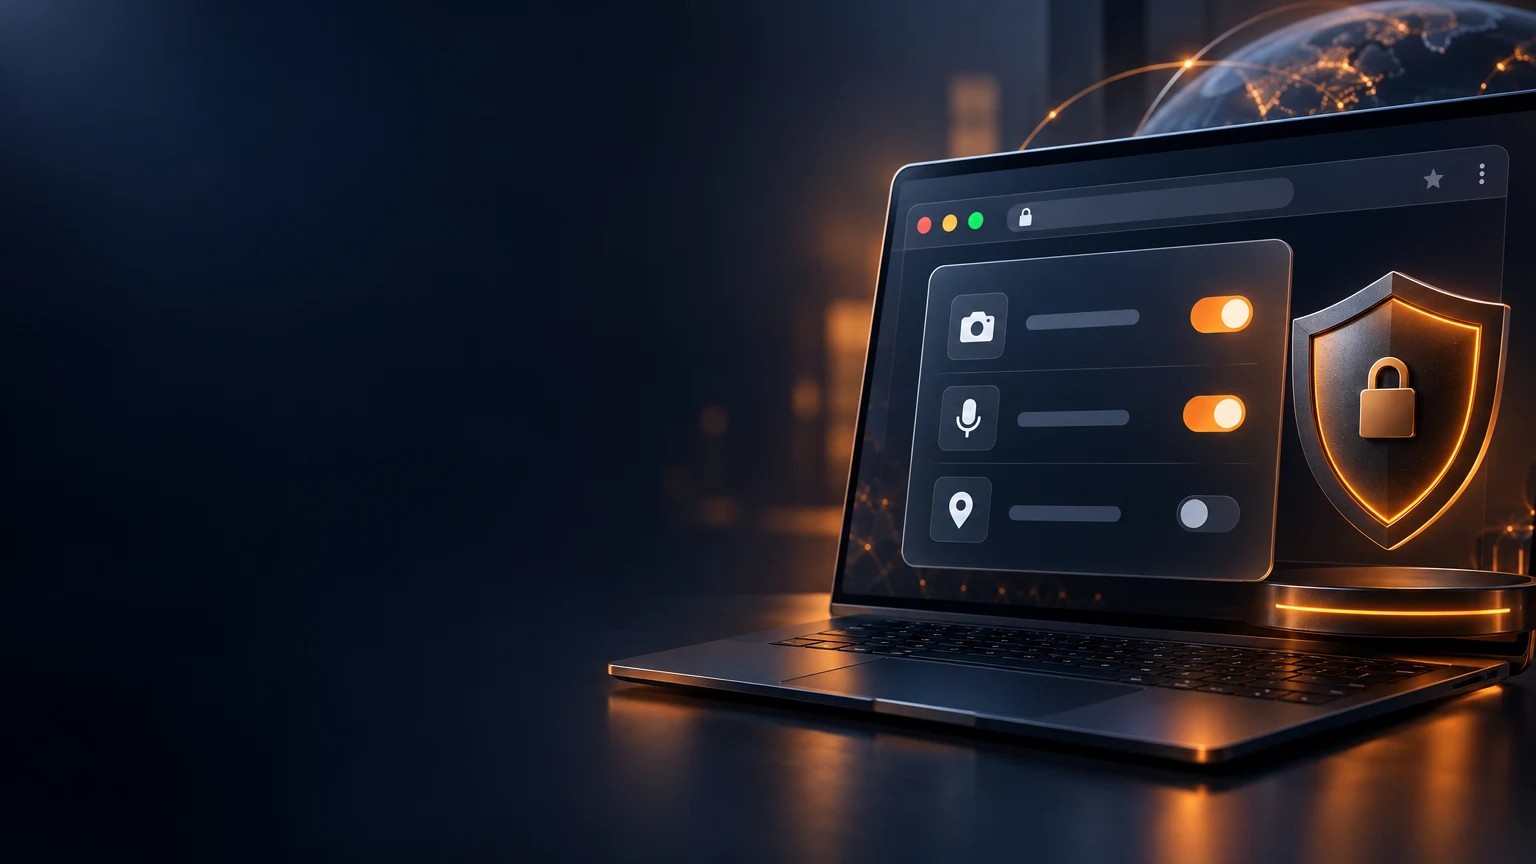
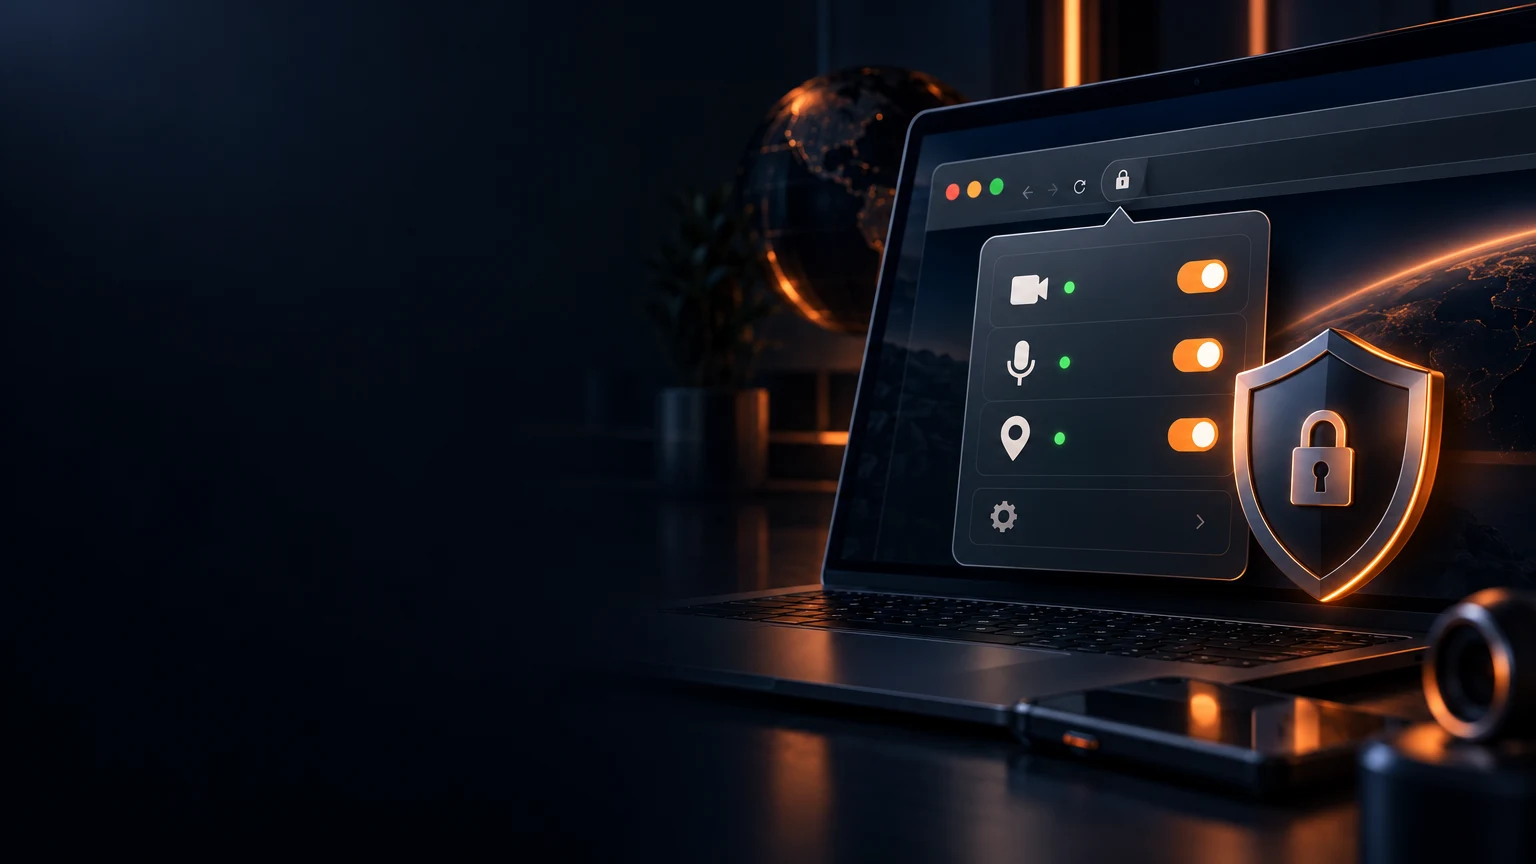
design: refresh premium featured image

diff --git a/src/content/articles/cara-audit-izin-browser-kamera-mikrofon-lokasi.md b/src/content/articles/cara-audit-izin-browser-kamera-mikrofon-lokasi.md
@@ -8,7 +8,7 @@ slug: cara-audit-izin-browser-kamera-mikrofon-lokasi
 category: Keamanan Digital
 categorySlug: keamanan-digital
 contentType: checklist
-featuredImage: /images/articles/cara-audit-izin-browser-kamera-mikrofon-lokasi.svg
+featuredImage: /images/articles/cara-audit-izin-browser-kamera-mikrofon-lokasi.webp
 featuredImageAlt: Ilustrasi editorial premium tentang Checklist Audit Izin
   Kamera, Mikrofon, dan Lokasi di Browser dengan visual yang relevan pada topik
   Keamanan Digital.
@@ -39,7 +39,7 @@ editorialNote: AI membantu riset dan drafting. GPT-6 Sol melakukan fact/source
 featured: false
 sponsored: false
 draft: false
-socialImage: /images/articles/cara-audit-izin-browser-kamera-mikrofon-lokasi-visual.webp
+socialImage: /images/articles/cara-audit-izin-browser-kamera-mikrofon-lokasi.webp
 imageStyle: premium-v1
 imageTagline: Periksa akses situs sebelum dibiarkan aktif
 ---
